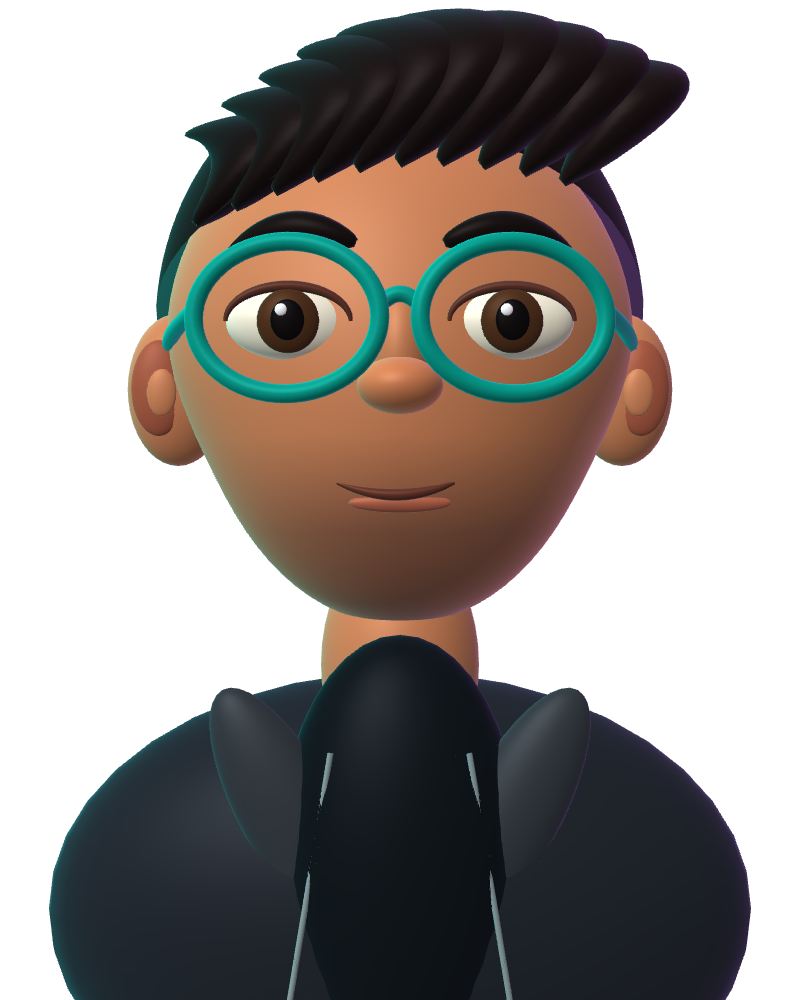
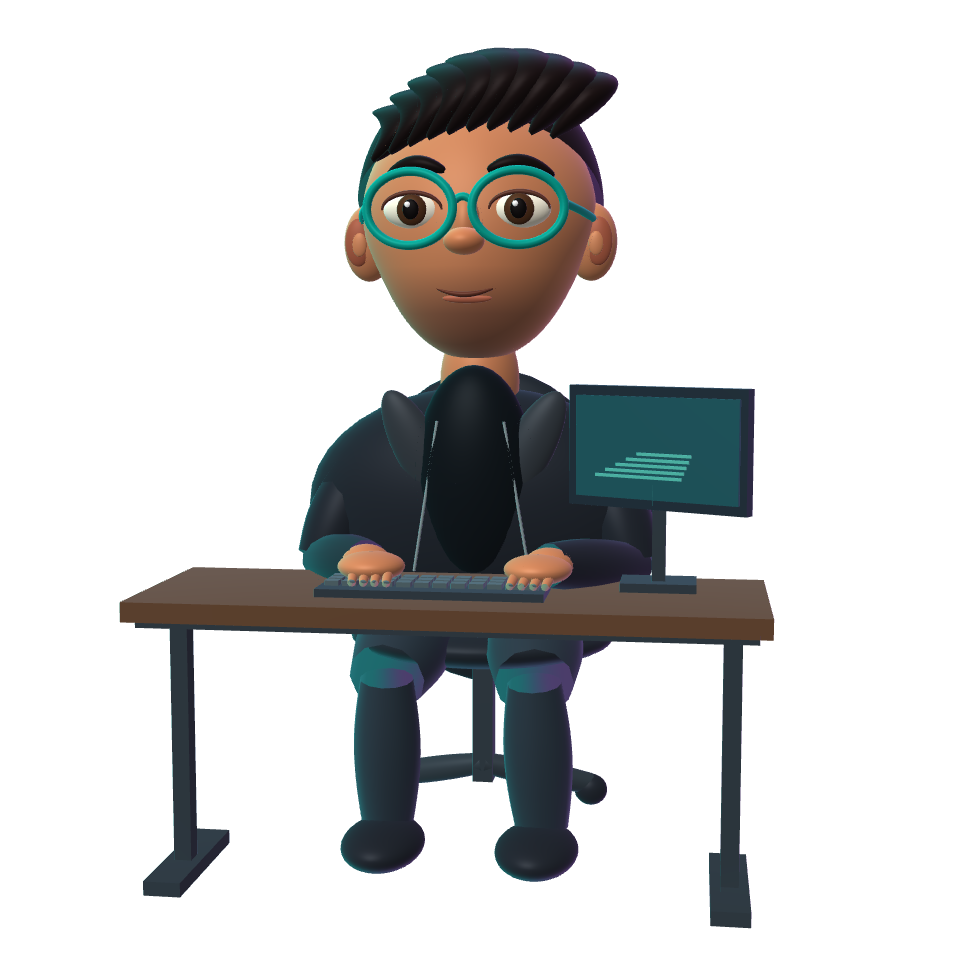
Stage a seated editing desk across the intro, About and campaign chapters

diff --git a/studio/index.html b/studio/index.html
@@ -1,21 +1,17 @@
 <!doctype html>
-<html lang="en"><head><meta charset="utf-8"><meta name="viewport" content="width=device-width, initial-scale=1"><meta name="theme-color" content="#0b1323"><title>Mohammed Aamer Sohel - AI Films & Social Strategy</title><meta name="description" content="AI campaign films, virtual model editorials and social media strategy for brands. Explore concepts and work with Mohammed Aamer Sohel."><meta property="og:title" content="Aamer Sohel - AI Films & Social Strategy"><meta property="og:description" content="Explore AI fashion editorials, product films and social campaign concepts."><link rel="icon" href="assets/as-icon.svg"><link rel="stylesheet" href="style.css?v=6"></head>
+<html lang="en"><head><meta charset="utf-8"><meta name="viewport" content="width=device-width, initial-scale=1"><meta name="theme-color" content="#0b1323"><title>Mohammed Aamer Sohel - AI Films & Social Strategy</title><meta name="description" content="AI campaign films, virtual model editorials and social media strategy for brands. Explore concepts and work with Mohammed Aamer Sohel."><meta property="og:title" content="Aamer Sohel - AI Films & Social Strategy"><meta property="og:description" content="Explore AI fashion editorials, product films and social campaign concepts."><link rel="icon" href="assets/as-icon.svg"><link rel="stylesheet" href="style.css?v=7"></head>
 <body><header><div class="shell nav"><a class="brand" href="#top" aria-label="Aamer Sohel home"><img src="assets/aamer-sohel.svg" alt="Aamer Sohel"></a><nav aria-label="Main navigation"><a href="#work">Work</a><a href="#services">Services</a><a href="#about">About</a></nav><a class="navcta" href="#contact">Get in touch</a></div></header>
-<main id="top"><div class="opening"><section class="stage" aria-labelledby="stage-title">
+<main id="top"><div class="opening"><span class="scene-anchor" id="about"></span><span class="scene-anchor" id="work"></span><span class="scene-anchor" id="cobalt"></span><span class="scene-anchor" id="citrus"></span><section class="stage" aria-labelledby="stage-title">
   <div class="stage-light" aria-hidden="true"></div>
-  <div class="character"><img src="assets/pose-center.png" alt="Original studio mascot in teal glasses and a film crew jacket" fetchpriority="high"><canvas aria-hidden="true"></canvas></div>
+  <div class="character"><img src="assets/pose-center.png" alt="Aamer at his editing desk wearing teal glasses" fetchpriority="high"><canvas aria-hidden="true"></canvas></div>
   <div class="stage-copy shell">
     <div class="stage-name"><span class="overline">Hello, I'm</span><h1 id="stage-title">Aamer<br>Sohel</h1></div>
     <div class="stage-role"><span class="overline">What I do</span><div class="role-window" aria-hidden="true"><span id="role-text">AI filmmaker</span></div><span class="sr-only">AI filmmaker, virtual model director and social strategist.</span></div>
   </div>
-  <div class="opening-film" hidden><img src="assets/cobalt.jpg" alt=""><div><span>VIRTUAL MODEL EDITORIAL</span><strong>Cobalt</strong><button type="button" data-film="cobalt">Play concept film</button></div></div><div class="stage-foot shell"><a class="stage-work" href="#work">Explore my work <span aria-hidden="true">↓</span></a></div>
-</section></div><section class="work shell" id="work"><div class="sectionhead"><div><div class="kicker"><i></i> CAMPAIGN STUDIES</div><h2>Selected <em>work</em></h2></div><p>A fragrance film, a virtual eyewear editorial and a beverage launch still.</p></div>
-<div class="gallery">
-<article><button class="thumb" data-film="ember" aria-label="Play Ember fragrance film"><img src="assets/ember.jpg" alt="Amber fragrance bottle lit against dark stone"><span class="pill">PLAY FILM</span></button><div class="meta">FRAGRANCE / PRODUCT FILM</div><h3>Ember</h3><p>A slow reveal built around amber light, glass edges and the heft of the bottle.</p></article>
-<article><button class="thumb" data-film="cobalt" aria-label="Play Cobalt fashion film"><img src="assets/cobalt.jpg" alt="Virtual fashion model in sculptural chrome eyewear"><span class="pill">PLAY FILM</span></button><div class="meta">EYEWEAR / VIRTUAL MODEL</div><h3>Cobalt</h3><p>A chrome frame, an electric blue set and one virtual model give the collection a distinct face.</p></article>
-<article><button class="thumb" data-film="citrus" aria-label="View Citrus campaign still"><img src="assets/citrus.jpg" alt="Tangerine beverage can with fresh blood orange slices"><span class="pill">VIEW STILL</span></button><div class="meta">BEVERAGE / CAMPAIGN STILL</div><h3>Citrus</h3><p>Cut fruit and a saturated orange palette put flavour at the centre of a launch post.</p></article></div></section>
+  <section class="scene-about scene-panel" aria-labelledby="about-title" inert><div class="kicker">ABOUT ME</div><h2 id="about-title">Mohammed<br><em>Aamer Sohel</em></h2><p>I work where filmmaking meets social strategy. For a product launch, I start with what a viewer should notice in the first frame. That choice shapes the model, the light, the edit and the cutdowns a brand can test across its channels.</p><a class="inline" href="https://www.linkedin.com/in/mohammedaamersohel/" target="_blank" rel="noopener">View my LinkedIn profile</a></section><section class="scene-work scene-panel" aria-labelledby="work-title" inert><div class="kicker">CAMPAIGN CONCEPTS</div><h2 id="work-title">Selected <em>work</em></h2><div class="screening"><article><button class="thumb" data-film="ember" aria-label="Play Ember fragrance film"><img src="assets/ember.jpg" alt="Amber fragrance bottle lit against dark stone"><span class="pill">PLAY FILM</span></button><div class="meta">FRAGRANCE / PRODUCT FILM</div><h3>Ember</h3><p>A slow reveal built around amber light, glass edges and the heft of the bottle.</p></article><article><button class="thumb" data-film="cobalt" aria-label="Play Cobalt fashion film"><img src="assets/cobalt.jpg" alt="Virtual fashion model in sculptural chrome eyewear"><span class="pill">PLAY FILM</span></button><div class="meta">EYEWEAR / VIRTUAL MODEL</div><h3>Cobalt</h3><p>A chrome frame, an electric blue set and one virtual model give the collection a distinct face.</p></article><article><button class="thumb" data-film="citrus" aria-label="View Citrus campaign still"><img src="assets/citrus.jpg" alt="Tangerine beverage can with fresh blood orange slices"><span class="pill">VIEW STILL</span></button><div class="meta">BEVERAGE / CAMPAIGN STILL</div><h3>Citrus</h3><p>Cut fruit and a saturated orange palette put flavour at the centre of a launch post.</p></article></div><nav class="film-links" aria-label="Choose a campaign"><a href="#work">Ember</a><a href="#cobalt">Cobalt</a><a href="#citrus">Citrus</a></nav></section><div class="stage-foot shell"><a class="stage-work" href="#about">About me <span aria-hidden="true">↓</span></a></div>
+</section></div>
 <section class="services" id="services"><div class="shell services-grid"><div><div class="kicker"><i></i> SERVICES</div><h2>Creative <em>services</em></h2></div><div class="rows"><div><h3>AI video production</h3><p>Concept, storyboard and a finished short film, with vertical edits and opening hooks for social.</p></div><div><h3>Virtual model campaigns</h3><p>AI model direction, styling and campaign imagery for fashion, beauty and lifestyle brands.</p></div><div><h3>Social growth strategy</h3><p>Audience positioning, content pillars and a posting plan, with creative tests guided by watch time, saves and enquiries.</p></div></div></div></section>
-<section class="shell about" id="about"><div class="signature"><img src="assets/aamer-sohel.svg" alt="Aamer Sohel wordmark"></div><div><div class="kicker"><i></i> ABOUT ME</div><h2>Mohammed Aamer Sohel</h2><p>I work where filmmaking meets social strategy. For a product launch, I start with what a viewer should notice in the first frame. That choice shapes the model, the light, the edit and the cutdowns a brand can test across its channels.</p><a class="inline" href="https://www.linkedin.com/in/mohammedaamersohel/" target="_blank" rel="noopener">View my LinkedIn profile</a></div></section>
+
 <section class="contact" id="contact"><div class="shell"><div class="kicker"><i></i> PROJECT ENQUIRIES</div><h2>What are you<br><em>launching?</em></h2><p>Send me your product, launch date and the audience you want to reach.</p><div class="contacts"><a class="darkbutton" href="https://wa.me/919492718006?text=Hi%20Aamer%2C%20I%27d%20like%20to%20discuss%20a%20brand%20project." target="_blank" rel="noopener">Start a project on WhatsApp</a><a class="call" href="mailto:itsaamersohel@gmail.com">itsaamersohel@gmail.com</a><a class="call" href="tel:+919492718006">+91 94927 18006</a></div></div></section>
 </main><footer class="shell"><span>Mohammed Aamer Sohel</span><a href="https://www.linkedin.com/in/mohammedaamersohel/" target="_blank" rel="noopener">LinkedIn</a></footer>
-<dialog id="viewer" aria-labelledby="dialog-title"><div class="dialogbar"><span id="dialog-title"></span><button id="close" aria-label="Close preview">&times;</button></div><div id="media"></div></dialog><script src="character.js?v=6"></script><script src="app.js?v=6"></script></body></html>
+<dialog id="viewer" aria-labelledby="dialog-title"><div class="dialogbar"><span id="dialog-title"></span><button id="close" aria-label="Close preview">&times;</button></div><div id="media"></div></dialog><script src="character.js?v=7"></script><script src="app.js?v=7"></script></body></html>

diff --git a/studio/character.js b/studio/character.js
@@ -12,9 +12,10 @@ function createFaceAnimation(stage) {
   const views=['left','center','right'];
   let fallbackView='';
   function fallback() {
-    const view=views[targetX < -.28 ? 0 : targetX > .28 ? 2 : 1];
+    const view=Number(stage.dataset.progress)>.6 ? "desk" : views[targetX < -.28 ? 0 : targetX > .28 ? 2 : 1];
     if(view!==fallbackView) {fallbackView=view;poster.src='assets/pose-'+view+'.png';}
   }
+  stage.addEventListener('scenechange',()=>{if(!renderer)fallback();});
   function point(e) {
     const rect=holder.getBoundingClientRect();
     if (!rect.width) return;
@@ -41,7 +42,7 @@ function createFaceAnimation(stage) {
     const blink=blinkTime<0?0:blinkTime<.09?blinkTime/.09:Math.max(0,1-(blinkTime-.09)/.14);
     if(blinkTime>.24)nextBlink=age+2.8+Math.random()*1.8;
     const intro=Math.max(0,1-age/1.2)**2;
-    renderer(yaw-intro*.22,pitch+intro*.13,gazeX,gazeY,brow,blink,age);
+    renderer(yaw-intro*.22,pitch+intro*.13,gazeX,gazeY,brow,blink,age,progress);
     holder.classList.add('ready');
   }
   function setActive(value) {
@@ -70,15 +71,21 @@ function buildModel(gl) {
         p.y=.427+(p.y-.427)*open;
         n=normalize(vec3(n.x,n.y/open,n.z));
       }
-      if(joint>.5){
+      if(joint>.5 && joint<4.5){
         p.y+=.47;
         p.yz=spin(head.y)*p.yz;n.yz=spin(head.y)*n.yz;
         p.xz=spin(-head.x)*p.xz;n.xz=spin(-head.x)*n.xz;
         p.y-=.47;
       }
+      if(joint>4.5)p.y+=.016*sin(head.w*7.+joint*2.);
+      p.xz=spin(.14+.42*head.z)*p.xz;
+      n.xz=spin(.14+.42*head.z)*n.xz;
+      p.y+=1.12+.32*head.z;
+      p.yz=spin(.10+.06*head.z)*p.yz;
+      n.yz=spin(.10+.06*head.z)*n.yz;
       world=p;
-      float camera=5.8-p.z;
-      float zoom=2.02;
+      float camera=9.5-p.z;
+      float zoom=1.72-.14*head.z;
       gl_Position=vec4(p.x*zoom*viewport.y/viewport.x,(p.y+.07)*zoom,-p.z*.6,camera*.54);
     }`;
   const fragment=`
@@ -169,6 +176,55 @@ function buildModel(gl) {
       const center=[x+.15*Math.sin(v*pi*1.4)+.13*v,base+(.41+.14*Math.cos(x*3))*v+.10*Math.sin(pi*v),.48+.16*Math.sin(pi*v)-.55*v-.44*x*x];
       return [center[0]+.175*w*Math.cos(tau*u),center[1]+.038*w*Math.cos(tau*u),center[2]-.172*w*Math.sin(tau*u)];},16,21,[.095+k*.002,.067+k*.001,.068+k*.001]);
   }
+  // Solid furniture, chair, seated legs and arms share the character's camera.
+  function box(center, size, color, angle=0) {
+    for(const [axis,sign] of [[0,1],[0,-1],[1,1],[1,-1],[2,1],[2,-1]]){
+      const first=(axis+1)%3, second=(axis+2)%3, start=verts.length/10;
+      for(const [a,b] of [[-1,-1],[1,-1],[1,1],[-1,1]]){
+        const q=[0,0,0],n=[0,0,0];q[axis]=sign*size[axis]/2;
+        q[first]=a*size[first]/2;q[second]=b*size[second]/2;n[axis]=sign;
+        const rotate=v=>[v[0]*Math.cos(angle)+v[2]*Math.sin(angle),v[1],v[2]*Math.cos(angle)-v[0]*Math.sin(angle)];
+        verts.push(...rotate(q).map((v,i)=>v+center[i]),...rotate(n),...color,0);
+      }
+      tris.push(start,start+1,start+2,start,start+2,start+3);
+    }
+  }
+  function limb(from,to,r,color,joint=0){
+    tube(t=>from.map((v,i)=>v+(to[i]-v)*t),t=>r*(.78+.22*Math.sin(pi*t)),color,joint,12,12);
+  }
+  const metal=[.19,.23,.26], leather=[.135,.16,.19], denim=[.17,.22,.26];
+  oval([0,-1.54,-.46],[.87,1.03,.17],leather,0);
+  oval([0,-2.18,-.08],[.83,.17,.66],leather,0);
+  box([0,-2.65,-.18],[.13,1,.13],metal);
+  for(const side of [-1,1]){
+    box([side*.79,-1.72,-.12],[.18,.095,.75],leather);
+    box([side*.79,-1.94,-.2],[.08,.44,.08],metal);
+    limb([0,-3.04,-.17],[side*.68,-3.20,-.35],.085,metal);
+    oval([side*.68,-3.24,-.35],[.106,.10,.09],black,0);
+    const knee=[side*.43,-2.27,.82];
+    limb([side*.35,-1.99,.03],knee,.29,denim);
+    limb(knee,[side*.46,-3.16,.68],.20,denim);
+    oval([side*.45,-3.24,.86],[.24,.13,.37],black,0);
+    const elbow=[side*.97,-1.68,.18],wrist=[side*.52,-1.57,.94];
+    limb([side*.77,-1.13,-.02],elbow,.20,black);
+    limb(elbow,wrist,.16,black);
+    oval(wrist,[.14,.10,.12],skin,0);
+    oval([side*.47,-1.57,1.04],[.19,.083,.19],skin,side<0?5:6);
+    for(let k=0;k<4;k++)limb([side*(.36+k*.065),-1.58,1.09],[side*(.34+k*.064),-1.63,1.27],.028,skin,side<0?5:6);
+    box([side*1.54,-2.55,1.17],[.10,1.58,.11],metal);
+    box([side*1.54,-3.31,1.13],[.21,.08,.90],metal);
+  }
+  box([0,-1.77,1.00],[3.46,.11,1.22],[.39,.27,.19]);
+  box([0,-1.84,1.00],[3.33,.045,1.12],metal);
+  box([-.1,-1.689,1.12],[1.26,.045,.42],[.19,.23,.26]);
+  for(let row=0;row<3;row++)for(let key=0;key<12;key++)
+    box([-.66+key*.101,-1.655,.98+row*.097],[.08,.032,.072],[.31,.38,.40]);
+  // A side-mounted editing monitor leaves the filmmaker's face visible.
+  box([1.13,-1.675,.86],[.42,.05,.31],metal);
+  box([1.13,-1.39,.87],[.075,.55,.08],metal);
+  box([1.12,-.91,.90],[1.12,.68,.07],[.13,.18,.22],-.49);
+  box([1.106,-.91,.943],[1.02,.57,.015],[.12,.32,.35],-.49);
+  for(let k=0;k<5;k++)box([1.01+.036*k,-1.07+k*.032,.90+(k*.036-.11)*.53+.065],[.55-.052*k,.017,.012],[.31,.70,.64],-.49);
   const buffer=gl.createBuffer();gl.bindBuffer(gl.ARRAY_BUFFER,buffer);gl.bufferData(gl.ARRAY_BUFFER,new Float32Array(verts),gl.STATIC_DRAW);
   for(const [name,size,offset] of [['pos',3,0],['normal',3,3],['color',3,6],['joint',1,9]]){
     const a=gl.getAttribLocation(program,name);gl.enableVertexAttribArray(a);gl.vertexAttribPointer(a,size,gl.FLOAT,false,40,offset*4);
@@ -176,12 +232,12 @@ function buildModel(gl) {
   gl.bindBuffer(gl.ELEMENT_ARRAY_BUFFER,gl.createBuffer());gl.bufferData(gl.ELEMENT_ARRAY_BUFFER,new Uint16Array(tris),gl.STATIC_DRAW);
   const loc=name=>gl.getUniformLocation(program,name),head=loc('head'),face=loc('face'),vp=loc('viewport');
   gl.enable(gl.DEPTH_TEST);
-  return (yaw,pitch,gx,gy,brow,blink)=>{
+  return (yaw,pitch,gx,gy,brow,blink,time=0,progress=0)=>{
     const canvas=gl.canvas;
-    const w=800,h=1000;
+    const w=960,h=960;
     if(canvas.width!==w||canvas.height!==h){canvas.width=w;canvas.height=h;gl.viewport(0,0,w,h);}
     gl.clearColor(0,0,0,0);gl.clear(gl.COLOR_BUFFER_BIT|gl.DEPTH_BUFFER_BIT);
-    gl.uniform2f(vp,w,h);gl.uniform4f(head,yaw,pitch,0,0);gl.uniform4f(face,gx,gy,brow,blink);
+    gl.uniform2f(vp,w,h);gl.uniform4f(head,yaw,pitch,progress,time);gl.uniform4f(face,gx,gy,brow,blink);
     gl.drawElements(gl.TRIANGLES,tris.length,gl.UNSIGNED_SHORT,0);
   };
 }

diff --git a/studio/app.js b/studio/app.js
@@ -49,32 +49,34 @@ function updateMotion() {
 }
 document.addEventListener('visibilitychange', updateMotion);
 new IntersectionObserver(([entry]) => { visible = entry.isIntersecting; updateMotion(); }).observe(stage);
-const reveals = new IntersectionObserver(entries => {
-  entries.forEach(entry => {
-    if (!entry.isIntersecting) return;
-    entry.target.classList.add('reveal');
-    reveals.unobserve(entry.target);
-  });
-});
-document.querySelectorAll('.gallery article').forEach(card => reveals.observe(card));
-updateMotion();const opening=document.querySelector('.opening');
-const featuredFilm=opening.querySelector('.opening-film');
-const desktopOpening=matchMedia('(min-width: 821px)');
+updateMotion();
+const opening=document.querySelector('.opening');
+const intro=stage.querySelector('.stage-copy'), about=stage.querySelector('.scene-about'), work=stage.querySelector('.scene-work');
+const cards=Array.from(work.querySelectorAll('article')), choices=Array.from(work.querySelectorAll('.film-links a'));
+const cue=stage.querySelector('.stage-work');
+const clamp01=x=>Math.max(0,Math.min(1,x));
+const ramp=(p,a,b)=>{const t=clamp01((p-a)/(b-a));return t*t*(3-2*t);};
 function frameOpening(){
   const distance=opening.offsetHeight-stage.offsetHeight;
-  const progress=desktopOpening.matches && distance>0 ? Math.max(0,Math.min(1,-opening.getBoundingClientRect().top/distance)) : 0;
-  stage.dataset.progress=String(progress);
-  stage.style.setProperty('--reel-turn',String(progress));
-  featuredFilm.hidden=progress<.48;
-  featuredFilm.inert=progress<.7;
+  const p=distance>0?clamp01(-opening.getBoundingClientRect().top/distance):0;
+  const turn=ramp(p,.035,.205);
+  const aboutFade=turn*(1-ramp(p,.345,.445));
+  const workFade=ramp(p,.37,.48);
+  stage.dataset.progress=String(turn);
+  stage.dispatchEvent(new Event('scenechange'));
+  stage.style.setProperty('--turn',String(turn));
+  stage.style.setProperty('--intro-opacity',String(1-ramp(p,.035,.15)));
+  stage.style.setProperty('--about-opacity',String(aboutFade));
+  stage.style.setProperty('--work-opacity',String(workFade));
+  intro.inert=p>.13;about.inert=aboutFade<.5;work.inert=workFade<.5;
+  const index=p<.64?0:p<.82?1:2;
+  cards.forEach((card,i)=>{card.hidden=i!==index;});
+  choices.forEach((link,i)=>{if(i===index)link.setAttribute('aria-current','true');else link.removeAttribute('aria-current');});
+  cue.href=p<.15?'#about':p<.40?'#work':p<.64?'#cobalt':p<.82?'#citrus':'#services';
+  cue.textContent=p<.15?'Scroll to About me':p<.40?'Explore my work':p<.82?'Next campaign':'Creative services';
 }
-let pendingScroll=false;
-function scheduleOpening(){
-  if(pendingScroll)return;
-  pendingScroll=true;
-  requestAnimationFrame(()=>{pendingScroll=false;frameOpening();});
-}
+let pending=false;
+function scheduleOpening(){if(pending)return;pending=true;requestAnimationFrame(()=>{pending=false;frameOpening();});}
 window.addEventListener('scroll',scheduleOpening,{passive:true});
 window.addEventListener('resize',scheduleOpening);
-desktopOpening.addEventListener('change',frameOpening);
 frameOpening();

diff --git a/studio/style.css b/studio/style.css
@@ -45,3 +45,30 @@
 .opening-film strong{font:italic 36px Georgia,serif}
 .opening-film button{color:#c9ffed;border:1px solid #6ca99c;background:#132837;border-radius:30px;padding:9px 14px}
 }
+.opening{height:540svh;min-height:0;position:relative;background:#080e16}
+.opening .stage{position:sticky;top:0;height:100svh;min-height:0}
+.scene-anchor{position:absolute;left:0;width:1px;height:1px}
+.scene-anchor#about{top:calc(22% - 22svh)}.scene-anchor#work{top:calc(50% - 50svh)}.scene-anchor#cobalt{top:calc(70% - 70svh)}.scene-anchor#citrus{top:calc(89% - 89svh)}
+.stage .character{inset:0;align-items:center;translate:calc(var(--turn,0)*-23vw) 0;scale:1}
+.stage .character :is(canvas,img){width:min(70vw,91svh);height:min(70vw,91svh);object-fit:contain}
+.stage .stage-copy{opacity:var(--intro-opacity,1)}
+.scene-panel{position:absolute;top:48%;right:6%;width:min(41%,590px);transform:translateY(-50%);z-index:2}
+.scene-panel[inert]{pointer-events:none;visibility:hidden}
+.scene-about{opacity:var(--about-opacity,0)}.scene-work{opacity:var(--work-opacity,0)}
+.scene-panel h2{font:500 clamp(36px,4.4vw,76px)/1 'Segoe UI',Arial,sans-serif;letter-spacing:-.065em;margin:10px 0 18px}
+.scene-panel h2 em{font-family:Georgia,serif;font-weight:400}
+.scene-panel .kicker,.scene-panel .meta{color:#9cf5d7}.scene-panel p{color:#d3e2e1;font-size:clamp(15px,1.25vw,20px);line-height:1.58}
+.scene-panel .thumb img{aspect-ratio:2.35;object-fit:cover;max-height:26svh}
+.screening article[hidden]{display:none}.screening .meta{margin-top:12px}.screening h3{font-size:clamp(22px,2.3vw,32px);letter-spacing:-.055em}
+.film-links{gap:18px;margin-top:14px;display:flex}.film-links a{font-size:14px;color:#c4d6d9;border-bottom:2px solid transparent}.film-links [aria-current=true]{color:#9cf5d7;border-color:currentColor}
+.stage-foot{z-index:3;pointer-events:none}.stage-work{pointer-events:auto}
+@media(max-width:700px){
+.opening{height:520svh}.stage .character{inset:1% 0 auto;height:62%;translate:calc(-16vw*var(--turn,0)) calc(-10svh*var(--turn,0))}
+.stage .character :is(canvas,img){width:min(95vw,60svh);height:min(95vw,60svh)}
+.stage .stage-copy{position:absolute;top:auto;bottom:12%;height:auto;align-items:center}
+.scene-panel{top:auto;bottom:10%;left:7%;width:86%;transform:none}
+.scene-panel h2{font-size:clamp(31px,7.2vw,44px);margin:5px 0 10px}
+.scene-panel .thumb img{aspect-ratio:3.1;max-height:17svh}.scene-panel p{font-size:15px}.scene-panel .meta{font-size:10px;margin-top:7px}
+.scene-work h3{font-size:22px}.film-links{margin-top:6px}.scene-work .screening p{font-size:14px;line-height:1.4}
+}
+@media(max-height:530px) and (min-width:701px){.scene-work .screening p{display:none}.scene-panel h2{font-size:30px;margin:4px 0}.scene-work .meta{margin-top:4px}.stage-foot{padding-block:4px}}
